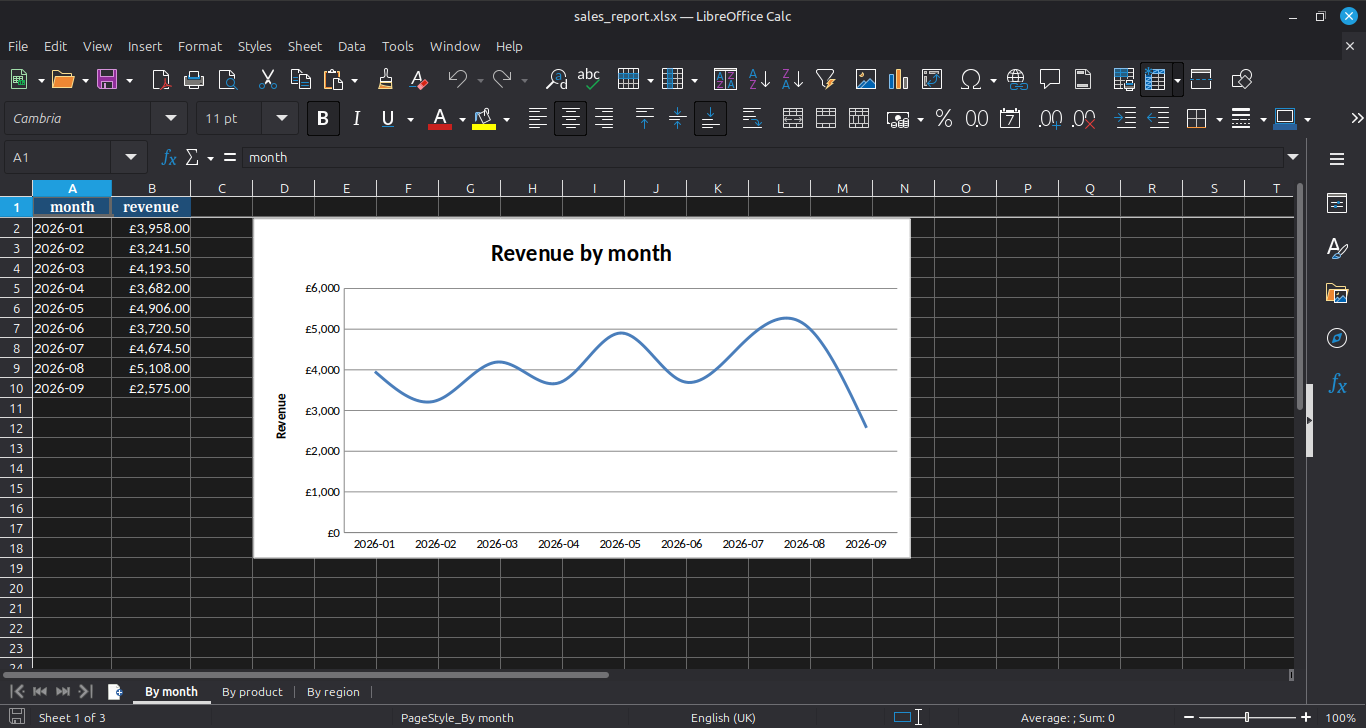
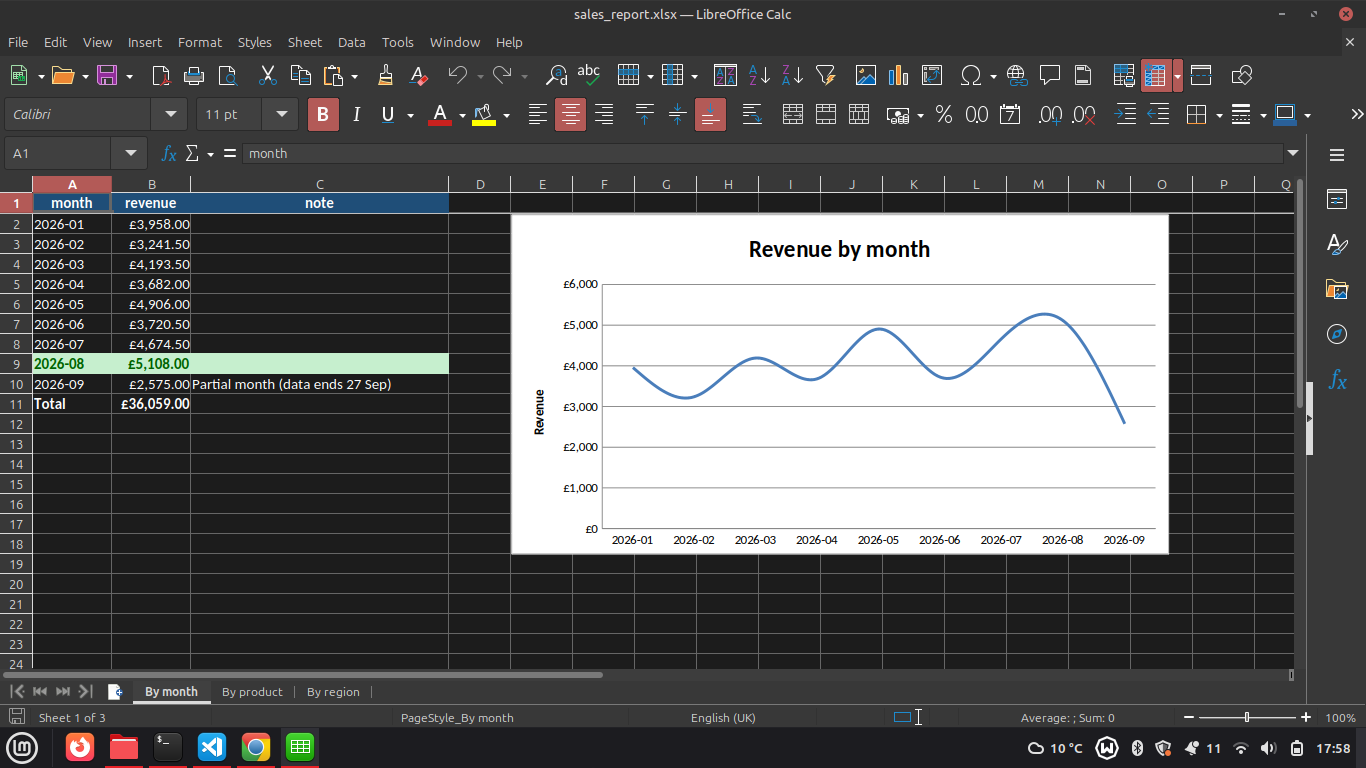
Update README for totals, highlight and partial month

diff --git a/README.md b/README.md
@@ -10,7 +10,9 @@ python make_report.py sample_data/sales.csv sales_report.xlsx
 
 ### What it produces
 
-An Excel workbook with three sheets: revenue **by month**, **by product** and **by region**. Each sheet has a styled header row, money formatted as pounds, columns sized to fit their contents, and a chart next to the table.
+An Excel workbook with three sheets: revenue **by month**, **by product** and **by region**. Each sheet has a styled header row, money formatted as pounds, columns sized to fit their contents, a bold **Total** row, the best row highlighted in green, and a chart next to the table.
+
+The **By month** sheet also has a **note** column. If the data stops before the end of the last month, that month is marked as a partial month, so a dip in the chart isn't mistaken for a real drop in sales.
 
 ![The By month sheet of the generated report](screenshots/report.png)
 
@@ -34,8 +36,10 @@ For the sample data (400 orders), the report totals £36,059.00 in revenue. The 
 ### How it works
 
 1. **pandas** loads the CSV, calculates revenue per order, and groups it by month, product and region.
-2. **openpyxl** writes each summary to its own sheet, formats it, and adds a line chart (by month) or bar chart (by product and region).
-3. The header row has a fixed fill with white text. Data cells leave the font colour unset, so the text adapts to dark mode instead of staying dark on a dark background.
+2. The latest date in the data decides whether the last month is complete. If not, the By month table gets a note.
+3. **openpyxl** writes each summary to its own sheet, formats it, and adds a line chart (by month) or bar chart (by product and region).
+4. A conditional formatting rule highlights the row with the highest revenue, and a Total row with `SUM` formulas goes in last, so the charts and the highlight don't include it.
+5. The header row has a fixed fill with white text. Data cells leave the font colour unset, so the text adapts to dark mode instead of staying dark on a dark background. The highlight sets both a light green fill and dark green text, so it stays readable in either mode.
 
 ## How to run
 
@@ -56,7 +60,8 @@ Use `python make_report.py --help` to see the options. To use your own data, giv
 
 ## Limitations
 
-- The sample data runs from January to the end of September, so September is a partial month and shows as a dip on the chart. It isn't a real drop in sales.
+- The sample data ends on 27 September, so September is a partial month. The report marks it in the note column, but the chart still shows it as a dip.
+- A month counts as partial only if the last date in the file is before the end of that month. A finished month with no sales on its last days is also flagged.
 - It expects exactly the column names listed above. Files with different names need renaming first.
 - It only produces revenue summaries, with no filtering by date range and no comparison between periods.
 - I haven't tested it in Microsoft Excel. The report was checked in LibreOffice Calc on Linux Mint.
@@ -69,3 +74,4 @@ Use `python make_report.py --help` to see the options. To use your own data, giv
 - Checking my numbers against each other (each table adding up to the same total) catches mistakes before they reach a report.
 - Reading and checking input properly (missing files, missing columns, bad rows) takes more code than the actual analysis, but it's what makes a tool usable by someone else.
 - Setting a font colour explicitly stops text adapting to dark mode. I found that out because the first version was unreadable in my own dark theme.
+- The order of steps matters when a sheet is built in layers. A Total row added before the chart or the highlight rule gets pulled into both.
